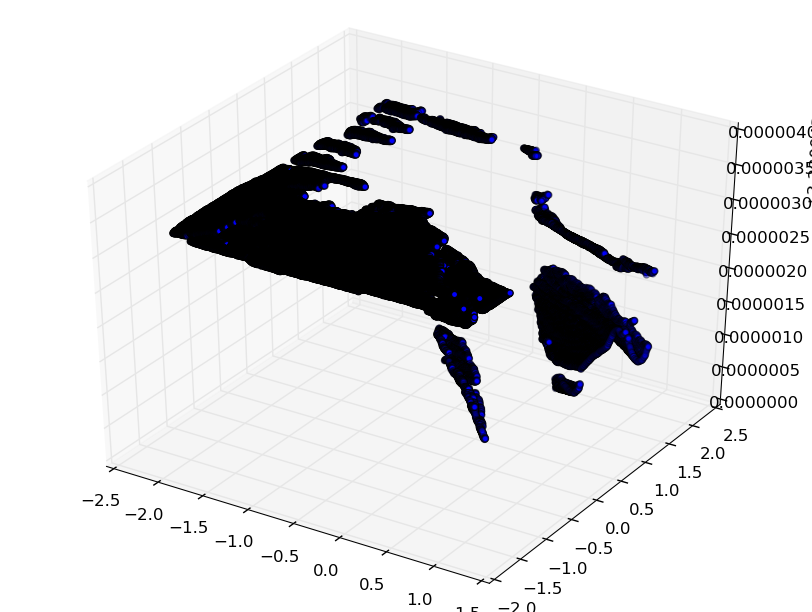
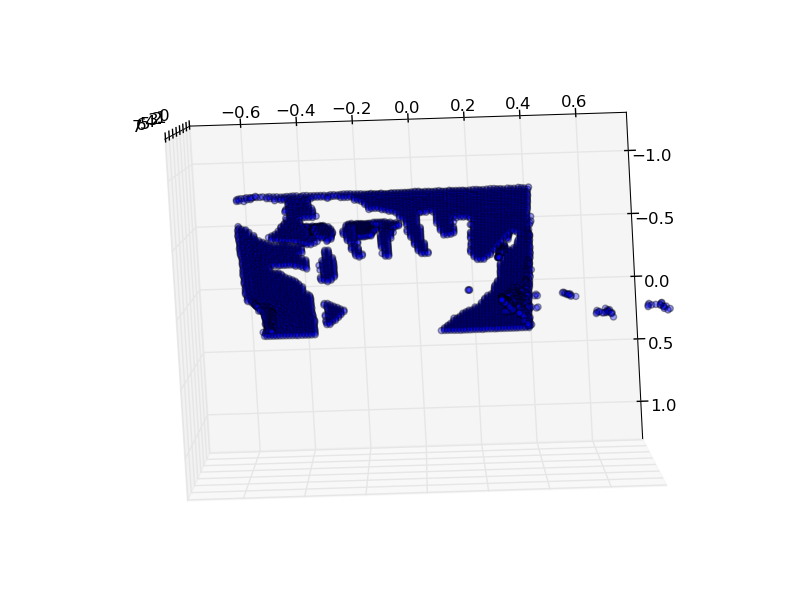
Fixed point cloud

diff --git a/depth-to-world.py b/depth-to-world.py
@@ -1,7 +1,8 @@
 import numpy as np
 import matplotlib.pyplot as plt
-from math import tan
 from mpl_toolkits.mplot3d import Axes3D
+from math import tan
+#import oct2py
 from freenect import sync_get_depth as get_depth
 
 x = []
@@ -9,10 +10,8 @@ y = []
 z = []
 
 def RawDepthToMeters(depthValue):
-	if depthValue < 2047:
-		# http://pille.iwr.uni-heidelberg.de/~kinect01/doc/classdescription.html#kinectcloud-section
-		return 1/(depthValue * (-0.0030711016) + 3.3309495161)
-	return 0.0
+	# http://pille.iwr.uni-heidelberg.de/~kinect01/doc/classdescription.html#kinectcloud-section
+	return 1/(depthValue * (-0.0030711016) + 3.3309495161)
 
 def DepthToWorld(x, y, mtx, depthValue):
 
@@ -30,12 +29,45 @@ def DepthToWorld(x, y, mtx, depthValue):
 	result = [resultX, resultY, resultZ]
 	return result
 
+def zoom_factory(ax,base_scale = 2.):
+    def zoom_fun(event):
+        # get the current x and y limits
+        cur_xlim = ax.get_xlim()
+        cur_ylim = ax.get_ylim()
+        cur_xrange = (cur_xlim[1] - cur_xlim[0])*.5
+        cur_yrange = (cur_ylim[1] - cur_ylim[0])*.5
+        xdata = event.xdata # get event x location
+        ydata = event.ydata # get event y location
+        if event.button == 'up':
+            # deal with zoom in
+            scale_factor = 1/base_scale
+        elif event.button == 'down':
+            # deal with zoom out
+            scale_factor = base_scale
+        else:
+            # deal with something that should never happen
+            scale_factor = 1
+            print event.button
+        # set new limits
+        ax.set_xlim([xdata - cur_xrange*scale_factor,
+                     xdata + cur_xrange*scale_factor])
+        ax.set_ylim([ydata - cur_yrange*scale_factor,
+                     ydata + cur_yrange*scale_factor])
+        plt.draw() # force re-draw
+
+    fig = ax.get_figure() # get the figure of interest
+    # attach the call back
+    fig.canvas.mpl_connect('scroll_event',zoom_fun)
+
+    #return the function
+    return zoom_fun
+
 (depth,_) = get_depth()
 mtx = np.loadtxt("output/intrinsics9x6.txt")
 for i in range(0, 480, 5):
 	for j in range(0, 640, 5):
 		depthValue = depth[i,j]
-		if RawDepthToMeters(depthValue) > 0:
+		if depthValue < 2047:
 			worldCoordinates = DepthToWorld(i, j, mtx, depthValue)
 			x.append(worldCoordinates[0])
 			y.append(worldCoordinates[1])
@@ -44,4 +76,5 @@ for i in range(0, 480, 5):
 fig = plt.figure()
 ax = Axes3D(fig)
 ax.scatter(x, y, z)
+f = zoom_factory(ax, base_scale=1.25)
 plt.show()
